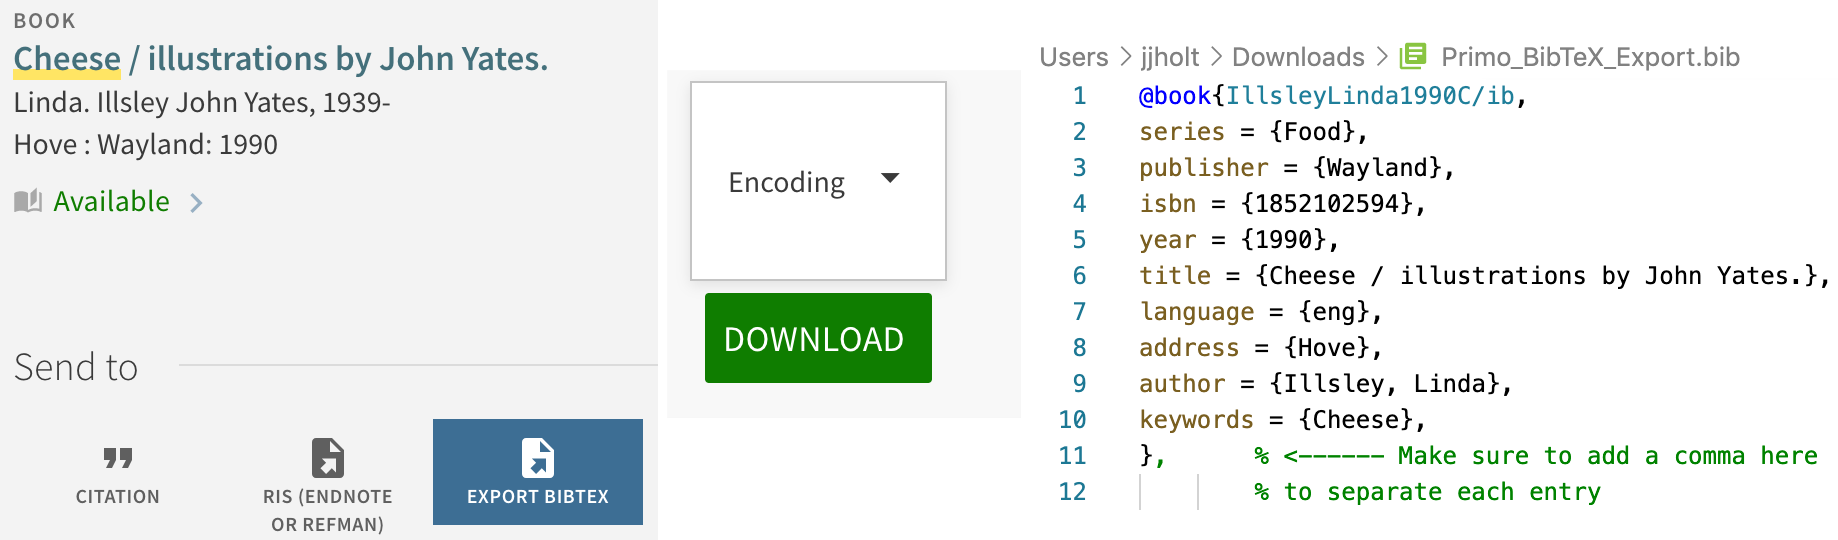
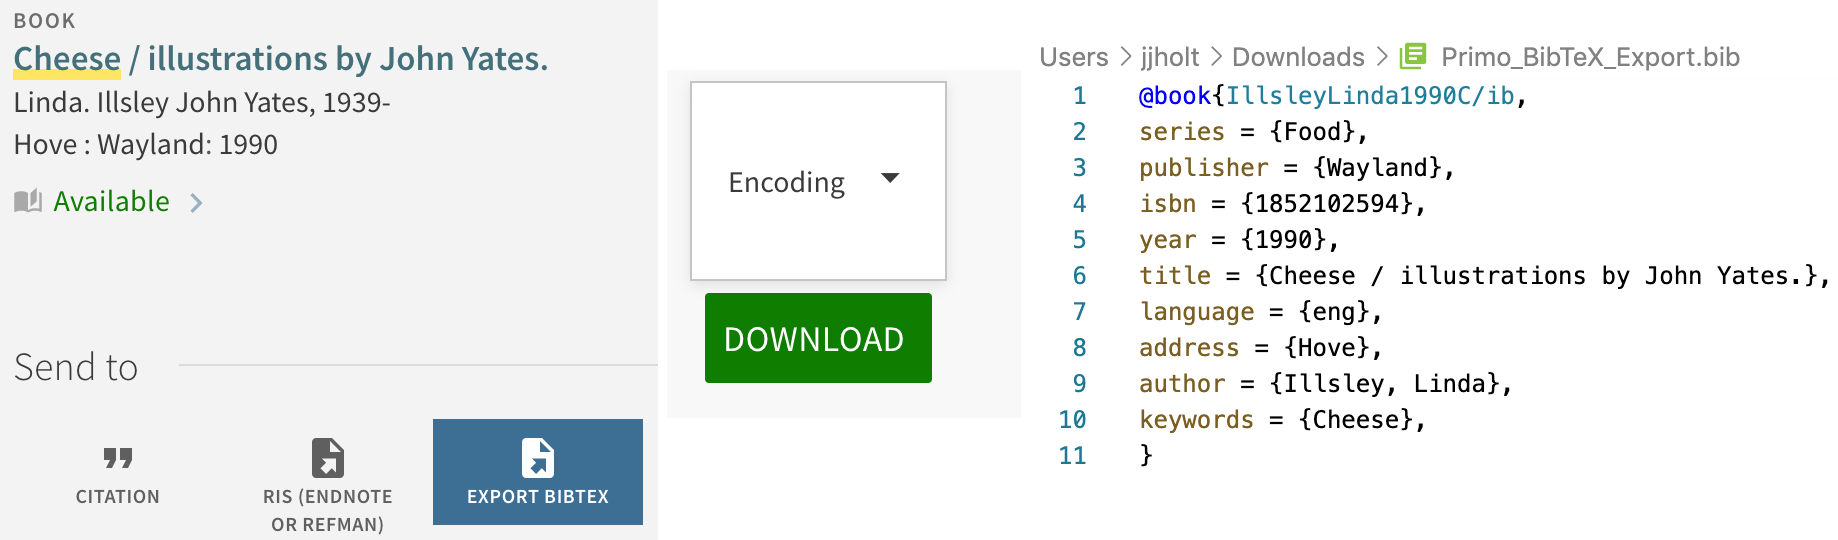
Minor corrections in bib

Changed region(s): [[0.6823, 0.8889, 0.8683, 0.9481], [0.6823, 0.8296, 0.9924, 0.8593], [0.5582, 0.8889, 0.5892, 0.9185]]

diff --git a/files/getting-started/bibliography.tex b/files/getting-started/bibliography.tex
@@ -29,10 +29,10 @@ Each bibliographical entry has a type, whether \verb|article|, \verb|book|, \ver
   publisher = {Blackwell Science Ltd},
   number    = {8},
   year      = {2005},
-},
+}
 \end{lstlisting}
 
-It's worth highlighting that the basic format is essentially \verb|@article{ID,...}|, with each entry being separated by commas.
+It's worth highlighting that the basic format is essentially \verb|@article{ID,...}|, with each field in an entry separated by commas.
 
 BiBTeX will handle ``et al'' and other conventions as long as you stick to the following format for the author:
 \begin{lstlisting}
